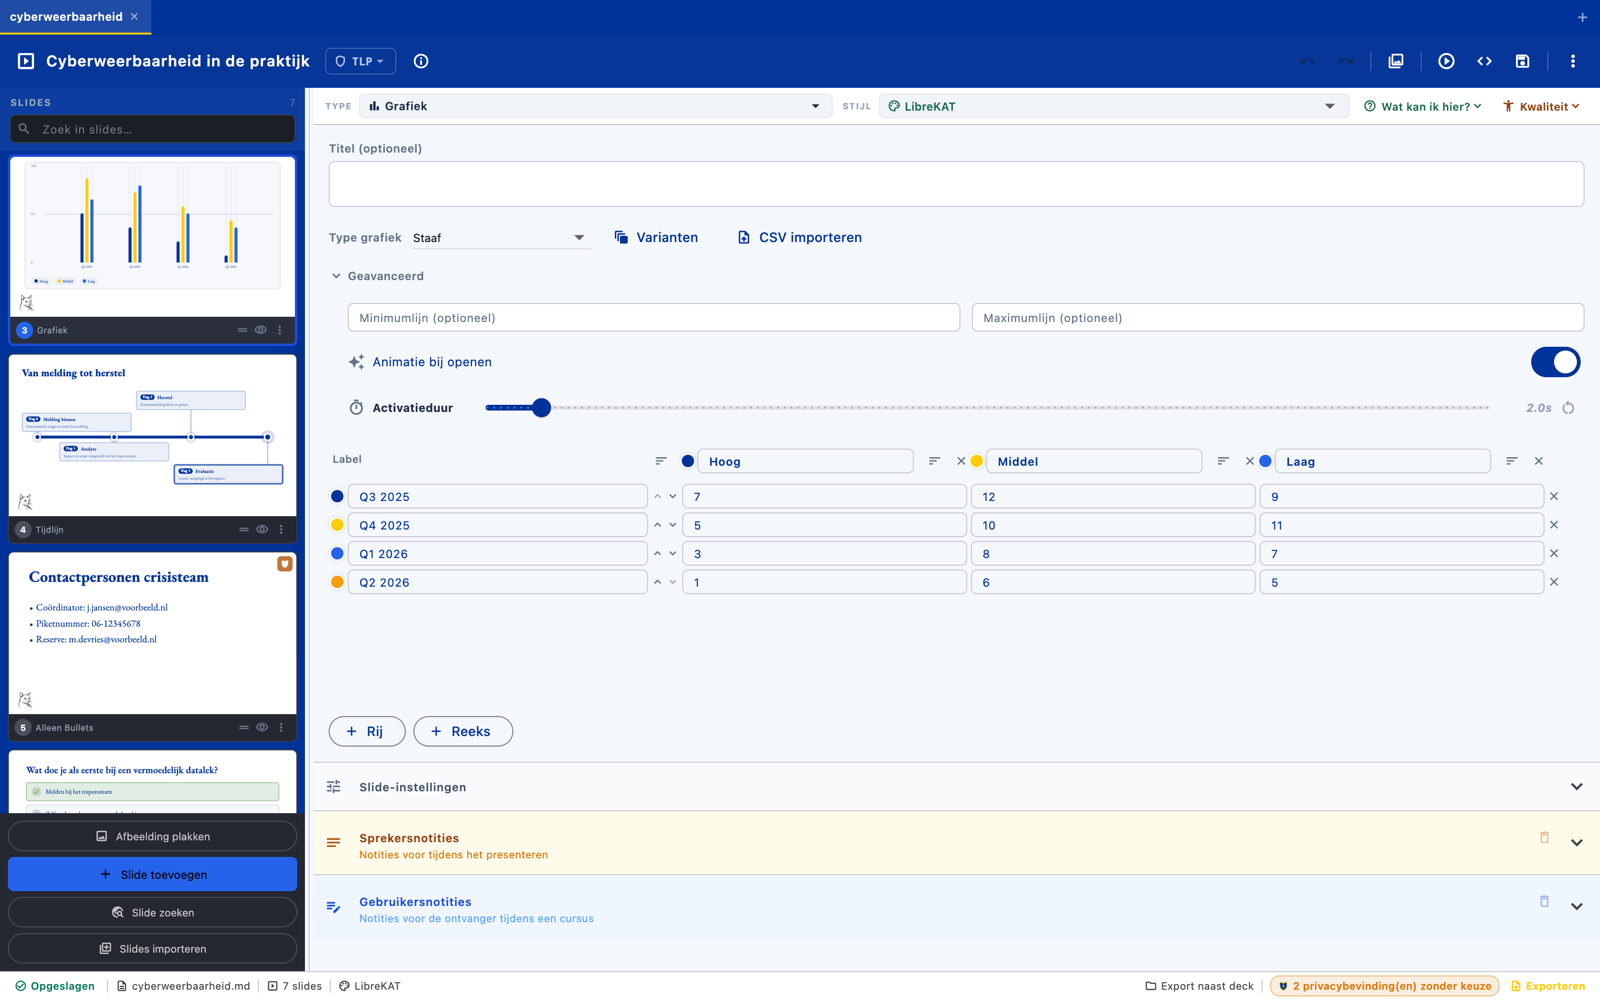
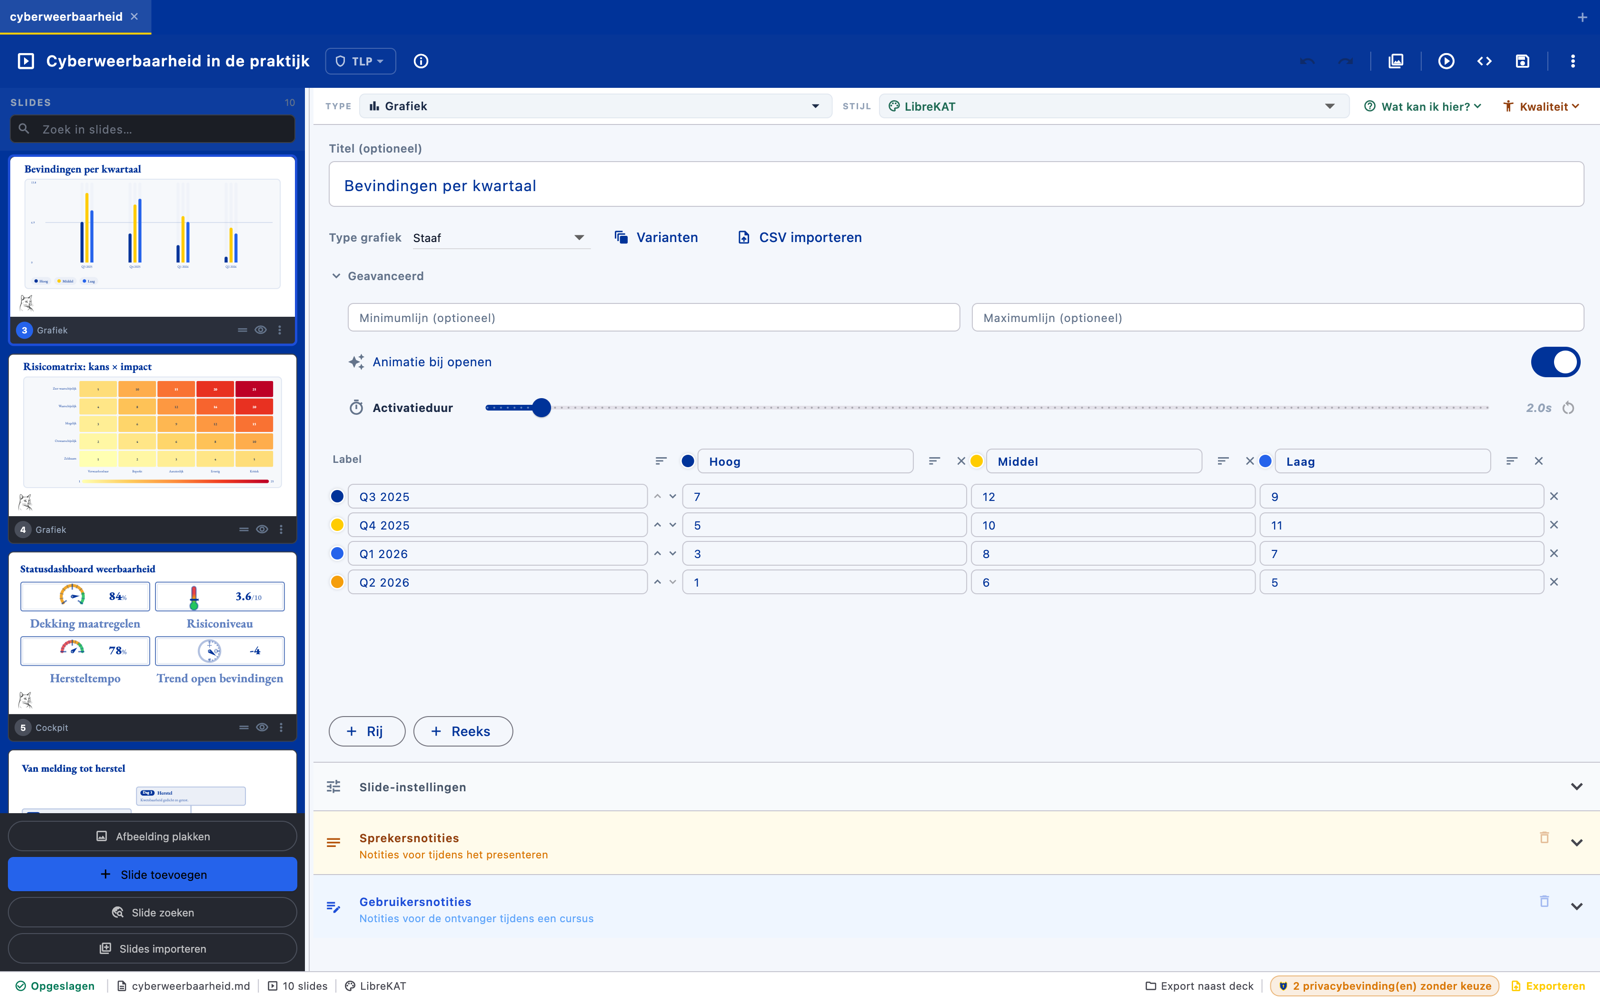
docs(readme): rijkere beelden — risicomatrix en cockpit-dashboard erbij
De demopresentatie achter de schermafdrukken was te kaal: grafiek zonder
titel, veel leeg wit. De grafiek draagt nu zijn titel, de slidestrook een
voller deck, en de galerij toont twee beloofde maar ongeziene features:
de heatmap als kans-impactmatrix en de cockpit-slide met meters.

diff --git a/README.md b/README.md
@@ -81,6 +81,10 @@ A few of those, seen rather than described:
 |---|---|
 | ![The chart editor: a grid of labels and numbers per series, with chart type, variants and CSV import above it — the slide draws itself from these values.](docs/images/chart-editor.png) | ![A bar chart slide with three series per quarter, drawn in the deck's style profile with its logo.](docs/images/chart-slide.png) |
 
+| A heatmap as a risk matrix | A cockpit dashboard |
+|---|---|
+| ![A heatmap chart used as a probability-times-impact risk matrix: five classes each way, cells coloured from pale yellow to deep red with a colour scale below.](docs/images/risk-matrix.png) | ![A cockpit slide with four meters: a speedometer, a thermometer, a voltmeter and a climb/descent indicator, each with green and red zones.](docs/images/cockpit-dashboard.png) |
+
 | A timeline from a plain Markdown list | A question slide, answered live |
 |---|---|
 | ![An animated timeline slide with four events from report to evaluation, each a labelled card on one line.](docs/images/timeline-slide.png) | ![A quiz slide with four answer options; the correct one is highlighted green after answering.](docs/images/quiz-slide.png) |

diff --git a/CHANGELOG.md b/CHANGELOG.md
@@ -121,6 +121,12 @@ summary is above, so a reader looking for "what is in 0.1.0" no longer has to
 read a book to find out.
 
 ### Added
+- **De README-galerij verrijkt: risicomatrix en cockpit-dashboard erbij, en
+  vollere beelden.** De demopresentatie achter de schermafdrukken was te kaal —
+  een grafiek zonder titel, veel leeg wit. De grafiek draagt nu zijn titel, de
+  slidestrook toont een voller deck, en twee beelden zijn toegevoegd die de
+  featurelijst al beloofde maar niemand zag: een heatmap als kans-impactmatrix
+  en een cockpit-slide met vier meters. Dezelfde serie staat op librekat.nl.
 - **Zes nieuwe schermafdrukken in de README.** De README toonde de
   pentestkant (editor met bevinding, privacypaneel, exportdialoog,
   presentatorweergave) maar liet de featurelijst verder onbewezen. Zes verse
